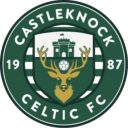
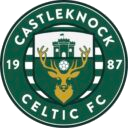
feat: show the home club's crest on each ground pin (#26)
* feat: show the home club's crest on each ground pin

Every pin looked the same, so the map told you where the grounds were but
nothing about them. Each ground now wears the crest of the club I've most
often watched host there, with the number of games in a corner badge once
I've been more than once.

The club is worked out from the games rather than stored per ground: a lot
of these are council and school pitches that several clubs play out of, and
21 of the 30 grounds have only one game so far, so a hand-written "whose
ground it is" would mostly be a guess from a single visit and would go stale.
Deriving it means the pin follows the games as they're added. A ground can
still set "club" to overrule it, or null for a plain numbered pin where no
one is really at home - the two pre-season friendlies at hired grounds and
the selection game. That leaves 27 crests and 3 plain pins.

Crests sit on a white disc with a hairline, so they read on both the street
and dark tiles, and the padding keeps the artwork inside the circle - without
it a shield-shaped crest hangs out of the disc, because object-fit contains
it to the square the circle is drawn inside.

Castleknock Celtic's crest was the one with a baked-in white background,
which showed as a white square. Its background is now transparent like the
rest, which also fixes it on the Clubs tab in dark mode.

* fix: stop the crests rendering at full size on the map

Leaflet's stylesheet forces `max-width: none !important` and
[…]

diff --git a/js/app.js b/js/app.js
@@ -26,6 +26,18 @@ const initials = (name) =>
     .join("")
     .slice(0, 3);
 
+// The home side of a game, as a club name that matches CRESTS and the Clubs tab.
+// A title is "Home vs Away", so the home name is the first half - but it's the name I'd say out
+// loud ("Stella Maris"), not always the full club name in `clubs` ("Stella Maris FC"), so the
+// suffix is ignored when matching. Anything that isn't one of the two clubs that played gives
+// null: charity matches with no "vs", selection sides, and short names like "St Pats".
+const homeClub = (game) => {
+  const [home] = game.title.split(" vs ");
+  const tidy = (name) => name.replace(/\b(FC|AFC|CY)\b/g, "").trim().toLowerCase();
+  const clubs = game.clubs ?? [];
+  return clubs.find((club) => club === home) ?? clubs.find((club) => tidy(club) === tidy(home)) ?? null;
+};
+
 // A stable colour per club name, so placeholders don't change between visits.
 const colourFor = (name) => {
   const hash = [...name].reduce((h, ch) => (h * 31 + ch.charCodeAt(0)) >>> 0, 7);
@@ -66,6 +78,24 @@ for (const game of games) {
 
 const clubCount = new Set(games.flatMap((game) => game.clubs)).size;
 
+// The club whose crest a ground gets on the map, in the same order as GROUNDS.
+// Plenty of these pitches are council or school grounds that several clubs play out of, so this
+// isn't "whose ground it is" - it's the club I've most often watched host there, with the most
+// recent game breaking a tie. Working it out from the games means it follows them: see a new
+// club host at a shared ground often enough and the pin changes by itself.
+// A ground can set "club" to overrule it, or to null for a plain numbered pin at a neutral venue.
+const groundClubs = GROUNDS.map((ground) => {
+  if ("club" in ground) return ground.club;
+
+  const seen = new Map(); // club -> games watched hosting here, newest game first within each
+  for (const game of [...ground.games].sort((a, b) => b.date.localeCompare(a.date))) {
+    const club = homeClub(game);
+    if (club) seen.set(club, (seen.get(club) ?? 0) + 1);
+  }
+  // Map keeps insertion order, so an equal count leaves the most recently seen club in front.
+  return [...seen.entries()].sort((a, b) => b[1] - a[1])[0]?.[0] ?? null;
+});
+
 // ---------- Map ----------
 
 const map = L.map("map");
@@ -77,11 +107,28 @@ const TILES = darkMode
   : "https://server.arcgisonline.com/ArcGIS/rest/services/World_Street_Map/MapServer/tile/{z}/{y}/{x}";
 L.tileLayer(TILES, { maxZoom: darkMode ? 16 : 19, attribution: "Tiles &copy; Esri" }).addTo(map);
 
-const pinIcon = (count, highlighted = false) => {
-  const size = count > 1 ? 30 : 24;
+// A ground's marker: the home club's crest on a white disc, with the number of games in a corner
+// badge once I've been more than once. Grounds with no home club to show (neutral venues) keep a
+// plain numbered pin, and so does a club with no crest file, falling back to its initials badge.
+// Crests are busy at this size and read as colour rather than detail, which is the point - it's
+// the variety that tells the grounds apart at a glance. The popup still names the ground.
+const pinIcon = (count, club = null, highlighted = false) => {
+  // A crest pin is one size: the badge marks a repeat ground, so it needs no size bump too, and
+  // 38px keeps the pins from crowding each other across Dublin. A plain pin still grows instead.
+  const size = club ? 36 : count > 1 ? 30 : 24;
+  // A crest fills the pin, so the count moves to a corner badge; a plain pin still just says it.
+  const badge = club && count > 1 ? `<span class="count">${count}</span>` : "";
+  const inside = club
+    ? CRESTS[club]
+      ? `<img src="${CRESTS[club]}" alt="">`
+      : `<span class="initials" style="--badge-colour:${colourFor(club)}">${initials(club)}</span>`
+    : count;
+
   return L.divIcon({
     className: "",
-    html: `<div class="pin${highlighted ? " highlighted" : ""}" style="width:${size}px;height:${size}px">${count}</div>`,
+    html:
+      `<div class="pin${club ? " crest" : ""}${highlighted ? " highlighted" : ""}" ` +
+      `style="width:${size}px;height:${size}px">${inside}${badge}</div>`,
     iconSize: [size, size],
   });
 };
@@ -92,8 +139,8 @@ const popupHtml = (ground, gamesShown) =>
     .join("")}</ul>`;
 
 // One marker per ground, in the same order as GROUNDS.
-const markers = GROUNDS.map((ground) =>
-  L.marker([ground.lat, ground.lon], { icon: pinIcon(ground.games.length) })
+const markers = GROUNDS.map((ground, groundIndex) =>
+  L.marker([ground.lat, ground.lon], { icon: pinIcon(ground.games.length, groundClubs[groundIndex]) })
     .bindPopup(popupHtml(ground, ground.games))
     .addTo(map)
 );
@@ -172,7 +219,7 @@ function filterMapToClub(club) {
       marker.remove();
       return;
     }
-    marker.setIcon(pinIcon(clubGames.length, true));
+    marker.setIcon(pinIcon(clubGames.length, groundClubs[i], true));
     marker.setPopupContent(popupHtml(ground, clubGames));
     marker.addTo(map);
     visible.push(marker);
@@ -198,7 +245,7 @@ function showAllGrounds() {
   syncUrlAndTitle();
   showAllControl.remove();
   GROUNDS.forEach((ground, i) => {
-    markers[i].setIcon(pinIcon(ground.games.length));
+    markers[i].setIcon(pinIcon(ground.games.length, groundClubs[i]));
     markers[i].setPopupContent(popupHtml(ground, ground.games));
     markers[i].addTo(map);
   });

diff --git a/css/styles.css b/css/styles.css
@@ -438,6 +438,67 @@ body {
 
 .pin.highlighted { background: var(--pitch); }
 
+/* Crest pin: the club I've most often seen host at this ground. The white disc is what makes
+   crests of any colour read against both the street and the dark tiles. */
+.pin.crest {
+  position: relative;
+  /* Flex, not the grid .pin uses: a percentage height on the crest only resolves against a
+     definite container height here, and without it a tall crest keeps its own aspect and spills. */
+  display: flex;
+  align-items: center;
+  justify-content: center;
+  /* object-fit fits a crest to its square, but the pin is a circle, so artwork near the corners
+     of that square hangs out of the disc. How much padding that needs was measured rather than
+     guessed: across the crests actually used, the furthest opaque pixel sits at 1.34x the
+     artwork's half-width (Stella Maris; most are nearer 1.1), not the 1.41x a crest filling its
+     whole square would reach. The border counts as disc here, being white too, so 4px leaves a
+     24px crest whose furthest point lands 16px out with the disc edge at 18px. */
+  padding: 4px;
+  background: #fff;
+  /* A hairline under the white border, so the disc still has an edge on pale street tiles */
+  box-shadow: 0 0 0 1px rgba(0, 0, 0, .22), 0 1px 5px rgba(0, 0, 0, .4);
+}
+
+/* width/height, not max-*: Leaflet forces `max-width/max-height: none !important` on every img in
+   the marker pane, so a max-* cap is ignored and the crest renders at its full 128px. */
+.pin.crest img { width: 100%; height: 100%; object-fit: contain; display: block; }
+
+/* Same placeholder as the Clubs tab, for a home club with no crest file */
+.pin.crest .initials {
+  width: 100%;
+  height: 100%;
+  display: grid;
+  place-items: center;
+  border-radius: 50%;
+  background: var(--badge-colour);
+  color: #fff;
+  font: 700 11px/1 var(--display);
+}
+
+/* Filtered to one club: a green ring round the disc, since the crest fills the pin itself */
+.pin.crest.highlighted {
+  background: #fff;
+  border-color: var(--pitch);
+  box-shadow: 0 0 0 1px var(--pitch), 0 1px 5px rgba(0, 0, 0, .4);
+}
+
+/* Games played here, once there's been more than one */
+.pin .count {
+  position: absolute;
+  top: -5px;
+  right: -5px;
+  display: grid;
+  place-items: center;
+  min-width: 17px;
+  height: 17px;
+  padding: 0 4px;
+  border-radius: 9px;
+  background: var(--pitch);
+  color: #fff;
+  font: 700 11px/1 var(--display);
+  box-shadow: 0 0 0 2px #fff;
+}
+
 .leaflet-popup-content { font: 14px/1.4 var(--body); }
 .leaflet-popup-content b {
   color: #1f7a4a;

diff --git a/data/grounds.js b/data/grounds.js
@@ -1,4 +1,7 @@
 // Every ground I've been to, with the games I saw there.
+// A ground's map pin shows the crest of the club I've most often watched host there, worked out
+// from the games, so it normally needs nothing here. Set "club" to overrule that, or to null for
+// a plain numbered pin where no one is really at home: a neutral venue or a selection side.
 // Each game: title ("Home vs Away"), date (YYYY-MM-DD), optional score ("2–2", home first),
 // optional competition (league or cup, from Final Whistle), caption, clubs (the teams that played)
 // and optional tags (anything else keyworded in Photos: the competition type, places, people).
@@ -7,6 +10,7 @@ const GROUNDS = [
     "name": "AUL Complex, Clonshaugh",
     "lat": 53.41978,
     "lon": -6.2162,
+    "club": null,
     "games": [
       {
         "title": "St Pats vs Bray",
@@ -30,6 +34,7 @@ const GROUNDS = [
     "name": "TU Dublin Blanchardstown",
     "lat": 53.40573,
     "lon": -6.38207,
+    "club": null,
     "games": [
       {
         "title": "St Pats vs Drogheda",
@@ -175,6 +180,7 @@ const GROUNDS = [
     "name": "Dublin 15",
     "lat": 53.38346,
     "lon": -6.33462,
+    "club": null,
     "games": [
       {
         "title": "Leinster Senior League Selection vs Ireland Selection",
@@ -550,6 +556,7 @@ const GROUNDS = [
     "name": "Bluebell United's ground",
     "lat": 53.3208,
     "lon": -6.36444,
+    "club": "Bluebell United",
     "games": [
       {
         "title": "Charity match – played with Noely",

diff --git a/README.md b/README.md
@@ -10,6 +10,7 @@ A map of the Leinster Senior League football games I go to, plus the odd pre-sea
 - **Clubs** tab: every club I've seen, with how many times. Click a club to filter the map to just its grounds and games.
 - **Grounds** tab: every ground A–Z with the date I was last there, and how many games when I've been more than once. Click one to fly to it.
 - **Numbers** tab: goals seen, how the results split between home wins, draws and away wins, which months I actually go, the grounds I keep going back to and the competitions I've seen. All of it worked out from the games, so it keeps itself up to date.
+- **Map pins:** each ground wears the crest of the club I've most often watched host there, with a badge for the number of games once I've been more than once. A lot of these are council and school pitches that several clubs play out of, so the crest says who I saw at home rather than whose ground it is, and it re-works itself out of the games as I add them. Neutral venues — pre-season friendlies, the selection game — keep a plain numbered pin.
 - **Photos:** games with photos show a thumbnail in the list and in the map popup. Tap it to see the photos full size; swipe or use the arrow keys when there's more than one.
 - **Share a tab:** whichever tab is open is in the address bar, e.g. [`?tab=grounds`](https://jaslloyd.github.io/groundhopping/?tab=grounds), and it combines with the two below. Games is where the page starts so it's left out, and a club link already says the Clubs tab.
 - **Share a club:** picking a club puts it in the address bar, e.g. [`?club=Glenville FC`](https://jaslloyd.github.io/groundhopping/?club=Glenville%20FC). Opening that link goes straight to the club's filtered map.
@@ -33,7 +34,7 @@ The photos I take at games are the source of truth. Each one gets a title (`Home
 | `index.html` | Page structure only |
 | `css/styles.css` | All styling, light and dark mode |
 | `js/app.js` | Map, the games, clubs, grounds and numbers tabs, and the club filter |
-| `data/grounds.js` | Every ground with the games seen there — add new games here |
+| `data/grounds.js` | Every ground with the games seen there — add new games here. A ground can set `club` to pick its pin crest, or `null` for a plain pin |
 | `data/crests.js` | Club name → crest image |
 | `crests/` | Crest images |
 | `photos/` | Game photos (and `photos/thumbs/`), named `<date>-<home>-<away>-<n>.jpg` |
